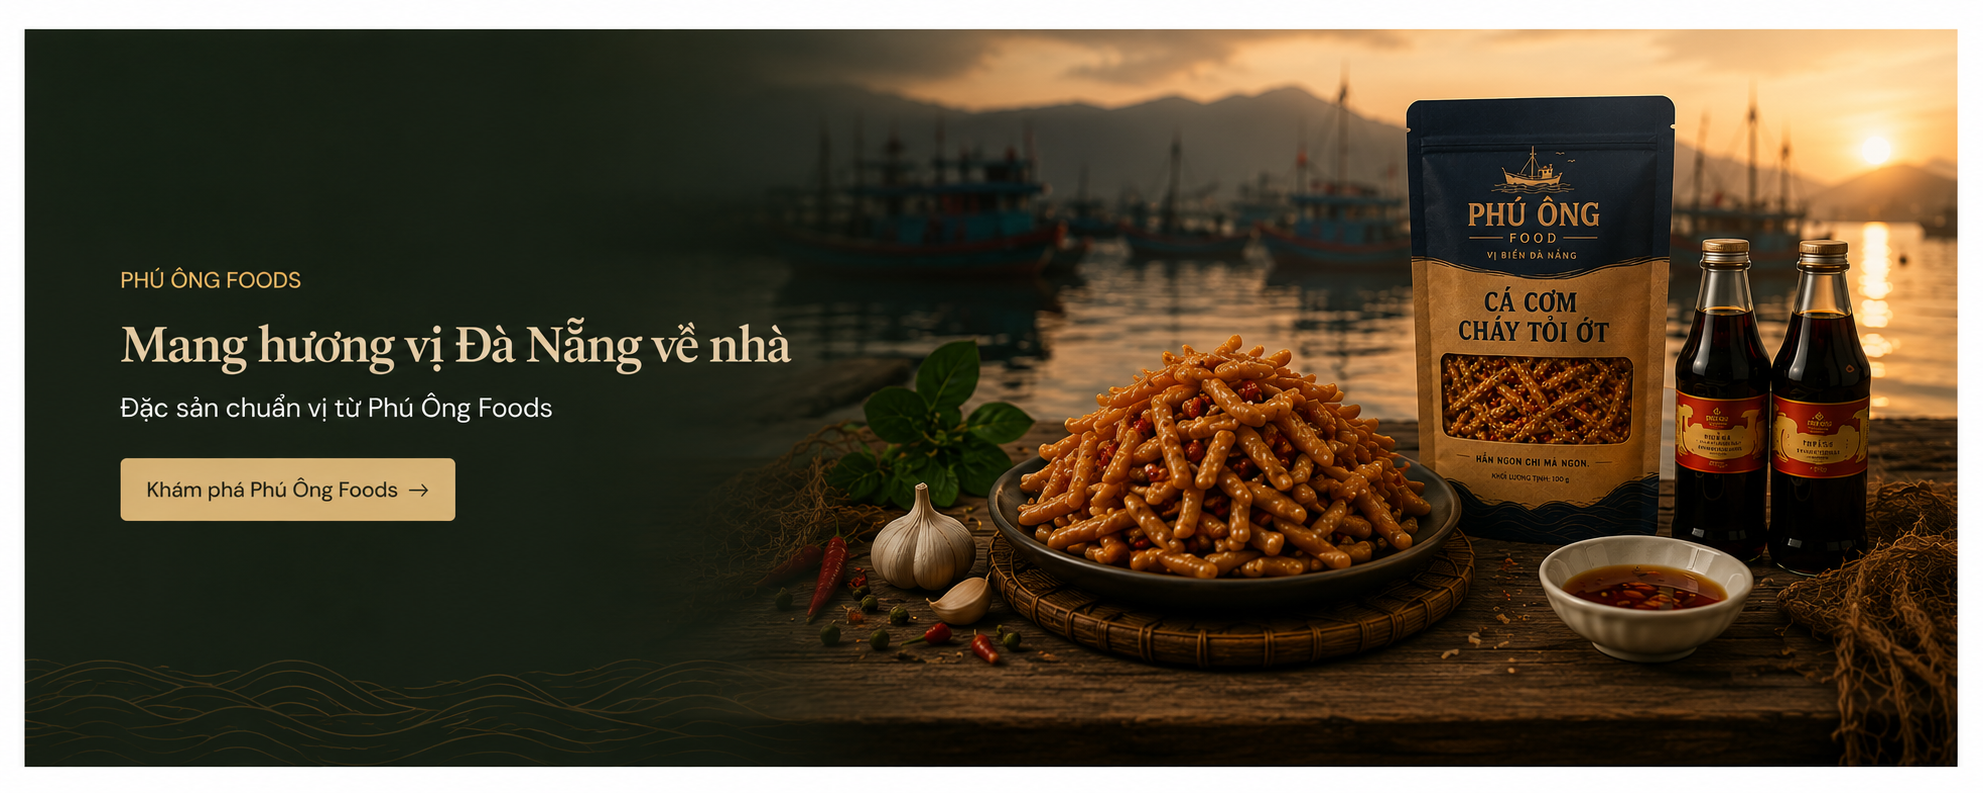
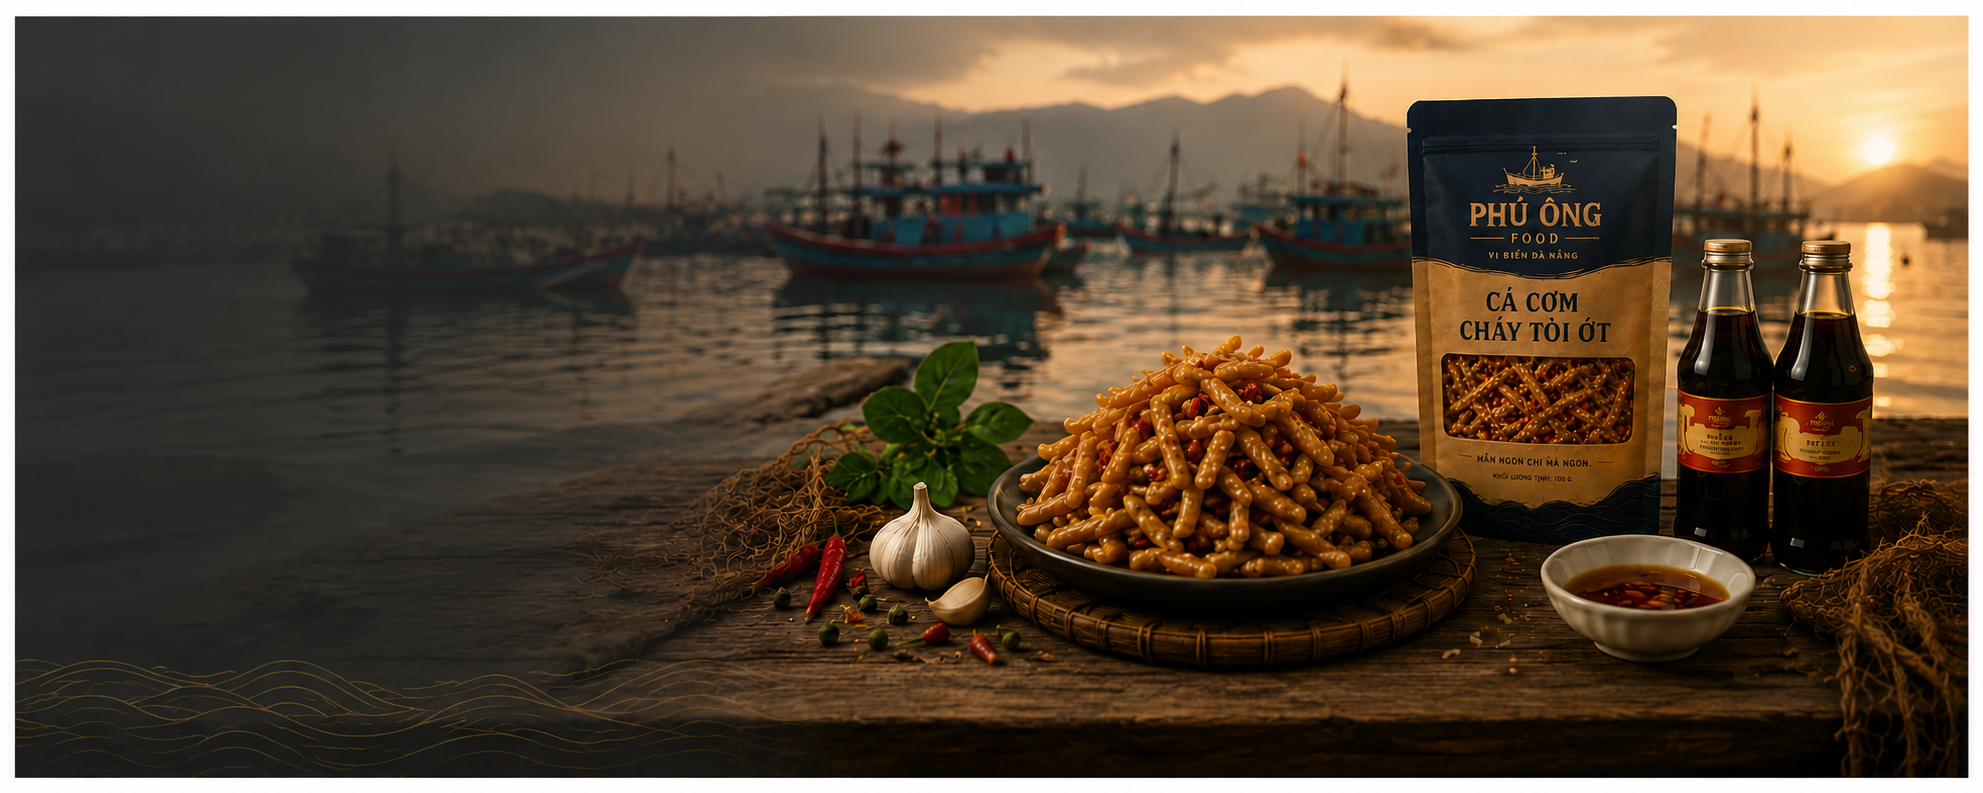
Update panel phu.ong

diff --git a/danaman/components/sections/community-testimonials-section.tsx b/danaman/components/sections/community-testimonials-section.tsx
@@ -77,7 +77,7 @@ function CarouselArrow({
       onClick={onClick}
       disabled={disabled}
       aria-label={label}
-      className="flex h-10 w-10 shrink-0 items-center justify-center rounded-full border border-[#D0AE7D]/50 bg-[#F7F4EE] text-[#1F2717] transition hover:border-[#D0AE7D] hover:bg-white disabled:cursor-not-allowed disabled:opacity-35 sm:h-11 sm:w-11"
+      className="flex h-9 w-9 shrink-0 items-center justify-center rounded-full border border-[#D0AE7D]/40 bg-white text-[#1F2717] shadow-[0_2px_8px_rgba(0,0,0,0.08)] transition hover:border-[#D0AE7D] hover:bg-[#F7F4EE] disabled:cursor-not-allowed disabled:opacity-35 sm:h-10 sm:w-10"
     >
       <svg className="h-4 w-4" viewBox="0 0 24 24" fill="none" stroke="currentColor" strokeWidth="2" aria-hidden>
         {direction === "prev" ? (
@@ -180,9 +180,9 @@ export function CommunityTestimonialsSection() {
             </h2>
           </div>
 
-          {/* Carousel bình luận + mũi tên */}
-          <div className="flex min-w-0 flex-1 items-center gap-2 sm:gap-4">
-            <div className="min-w-0 flex-1 overflow-hidden">
+          {/* Carousel bình luận — mũi tên nằm trong vùng card (cạnh phải) */}
+          <div className="relative min-w-0 flex-1">
+            <div className="overflow-hidden pr-11 sm:pr-12">
               <div
                 className="flex transition-transform duration-300 ease-out"
                 style={{
@@ -202,7 +202,7 @@ export function CommunityTestimonialsSection() {
               </div>
             </div>
 
-            <div className="flex shrink-0 flex-col gap-2 sm:gap-3">
+            <div className="absolute top-1/2 right-2 z-10 flex -translate-y-1/2 flex-col gap-2 sm:right-2.5 sm:gap-2.5">
               <CarouselArrow direction="prev" onClick={handlePrev} disabled={!canPrev} />
               <CarouselArrow direction="next" onClick={handleNext} disabled={!canNext} />
             </div>

diff --git a/danaman/lib/footer-social-links.ts b/danaman/lib/footer-social-links.ts
@@ -2,11 +2,11 @@
  * Liên kết chia sẻ / CTA trên site. Sửa URL tại đây khi cần cập nhật.
  */
 /** Tab mới khi bấm "Kết nối" ở trang chi tiết câu chuyện */
-export const storyDetailConnectUrl = "https://www.facebook.com/ThucPhamAnToanPhuOng/";
+export const storyDetailConnectUrl = "https://www.facebook.com/phu.ong.danangvn/";
 
 export const footerSocialLinks = {
-  facebook: "https://www.facebook.com/groups/626951533498740",
+  facebook: "https://www.facebook.com/danaman.local",
   zalo: "https://id.zalo.me/account?continue=https%3A%2F%2Fchat.zalo.me%2F",
-  tiktok: "https://www.tiktok.com/",
-  youtube: "https://www.youtube.com/",
+  tiktok: "https://www.tiktok.com/@danaman.vn",
+  youtube: "https://www.youtube.com/@danaman.vn",
 } as const;